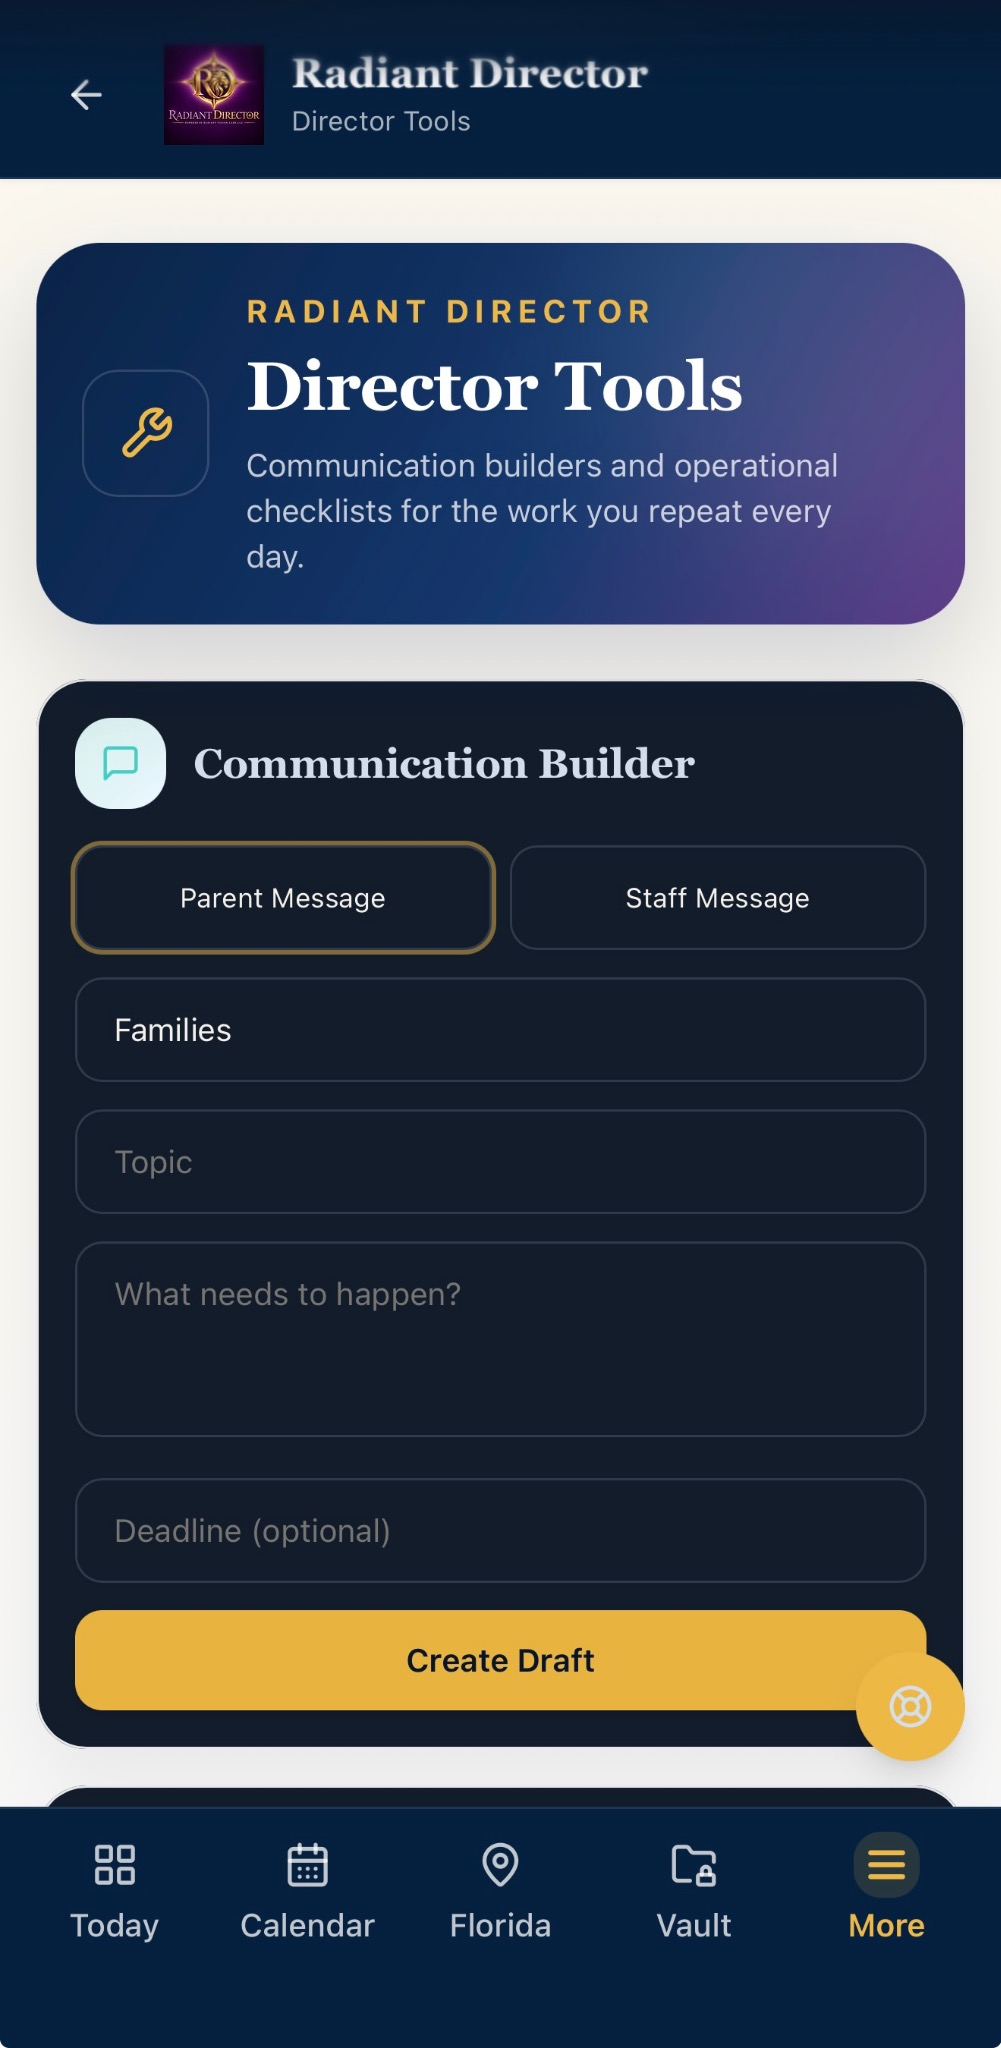
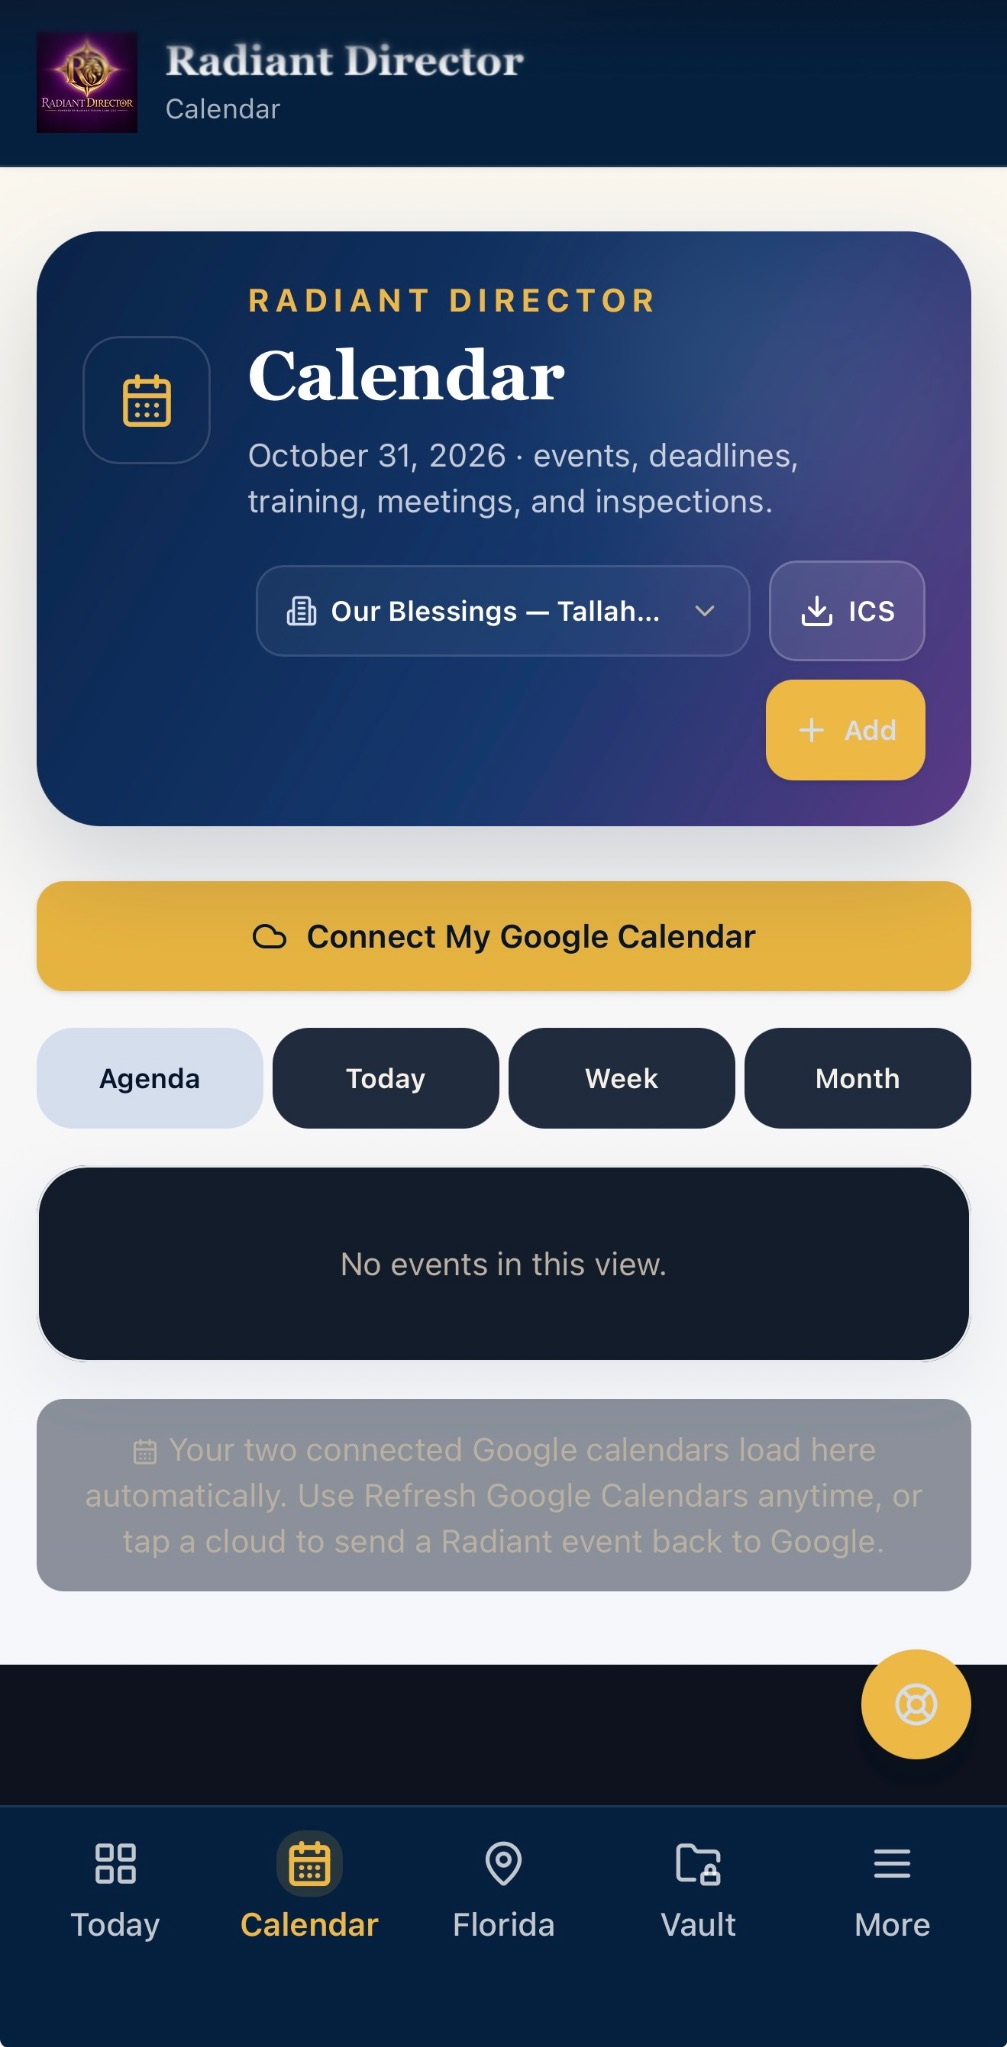
Use cleaner calendar and vault captures

diff --git a/radiant-director-studio/SOURCE_NOTES.md b/radiant-director-studio/SOURCE_NOTES.md
@@ -5,13 +5,13 @@ Six-screen iPhone collection using authentic user-supplied mobile captures from 
 | Screen | Source | Feature |
 |---|---|---|
 | 1 | IMG_5340.jpeg | CENTER LEADERSHIP |
-| 2 | IMG_5345.jpeg | DIRECTOR TOOLS |
+| 2 | IMG_5358.jpeg | DAILY PLANNING |
 | 3 | IMG_5353.png | STAFF SUPPORT |
 | 4 | IMG_5346.jpeg | ASK JAG |
-| 5 | IMG_5342.png | YOUR DOCUMENTS |
+| 5 | IMG_5357.jpeg | YOUR DOCUMENTS |
 | 6 | IMG_5348.jpeg | RADIANT MEALS |
 
-The Director Tools screen replaces the earlier calendar placeholder because no calendar capture was supplied. The Staff Career screen replaces the expiration-alert placeholder; its headline now describes staff support. Ask Jag uses a specific, verified feature rather than a generic AI-team claim. The closing screen highlights actual Radiant Meals functionality.
+The cleaner calendar capture restores the daily planning screen and its original headline, “Your Day. Organized.” The cleaner vault capture replaces its earlier cramped-header version. The Staff Career screen replaces the expiration-alert placeholder; its headline now describes staff support. Ask Jag uses a specific, verified feature rather than a generic AI-team claim. The closing screen highlights actual Radiant Meals functionality.
 
 The named employee roster was excluded from marketing assets. Screen recordings were inspected but were not needed for the selected six stills. Source UI remains authentic, including its existing header wrapping, low-contrast text in some areas, and empty meal counts. These are product UI details, not editor defects, and have not been painted over.
 
